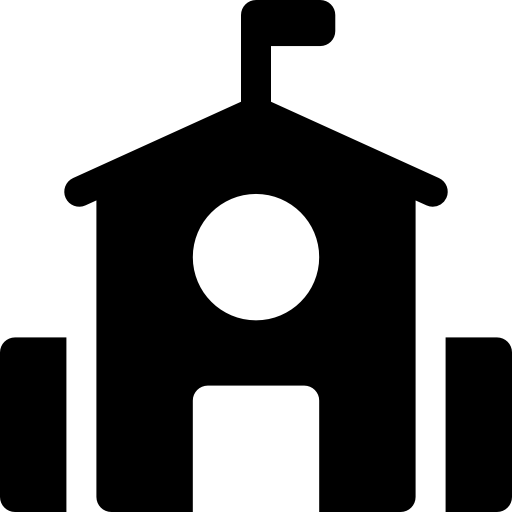
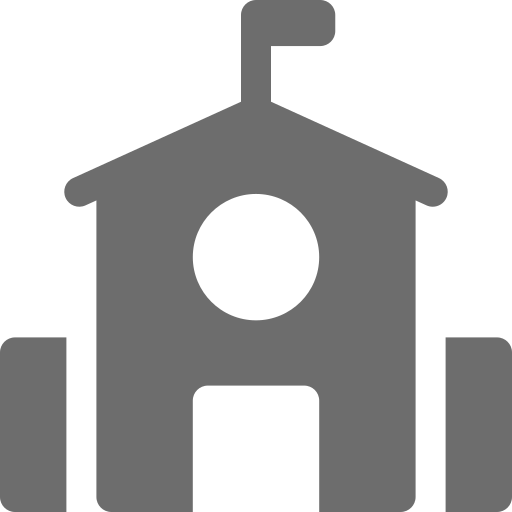
dashboard-student color scheme

diff --git a/src/app/dashboard-student/page.tsx b/src/app/dashboard-student/page.tsx
@@ -5,31 +5,43 @@ export default function Home() {
     <main className="flex min-h-screen flex-col items-center">
       {/* Main Header Section */}
       <div className="self-start w-[200px] text-left ml-[150px] mt-8">
-        <span className="text-6xl font-semibold">Dashboard</span>
+        <span className="text-6xl font-semibold text-headingBlack">
+          Dashboard
+        </span>
         <div className="flex items-end w-[4600px]">
           <Image src="/school.png" alt="school logo" width={25} height={25} />
           <div className="ml-3">
-            <span className="border-b-2 border-current">
+            <span className="border-b-2 border-subheadingBlack text-subheadingBlack">
               Decelis Junior High School
             </span>
-            <span className="mx-1"> | </span>
-            <span>Grade 8A &gt; [Student's Name]</span>
+            <span className="mx-1 text-subheadingBlack"> | </span>
+            <span className="text-subheadingBlack">
+              Grade 8A &gt; [Student's Name]
+            </span>
           </div>
         </div>
       </div>
       <hr className="self-start ml-[150px] border-t border-gray-200 my-[20px] w-[70%]" />
       <div className="self-start ml-[150px]">
-        <span className="font-bold text-4xl text-red-500">Bob Evans</span>
-        <span className="font-medium text-3xl text-red-500">'s Profile</span>
+        <span className="font-bold text-4xl text-headingRed">Bob Evans</span>
+        <span className="font-medium text-3xl text-headingRed">'s Profile</span>
       </div>
       {/* Main Content Container */}
       <div className="flex w-full mt-[30px] ml-[250px]">
         {/* Profile Outline Buttons */}
         <div className="flex flex-col ml-[30px]">
-          <button className="mb-5 text-left text-xl">Personal Data</button>
-          <button className="mb-5 text-left text-xl">Academics</button>
-          <button className="mb-5 text-left text-xl">Non-Academics</button>
-          <button className="text-left text-xl">Teacher's Notes</button>
+          <button className="mb-5 text-left text-xl text-subheadingBlack">
+            Personal Data
+          </button>
+          <button className="mb-5 text-left text-xl text-subheadingBlack">
+            Academics
+          </button>
+          <button className="mb-5 text-left text-xl text-subheadingBlack">
+            Non-Academics
+          </button>
+          <button className="text-left text-xl text-subheadingBlack">
+            Teacher's Notes
+          </button>
         </div>
         <div className="flex-grow">
           <div className="flex justify-center">
@@ -37,53 +49,91 @@ export default function Home() {
             <div className="flex w-[50%] h-dvh bg-white shadow-lg rounded-3xl ml-[-150px]">
               <div className="flex">
                 <div className="py-10 px-14 flex-1">
-                  <div className="font-bold text-4xl">Profile</div>
+                  <div className="font-bold text-4xl text-headingBlack">
+                    Profile
+                  </div>
                   <div className="flex">
                     <div className="mt-3">
-                      <div className="font-semibold text-xl">
+                      <div className="font-semibold text-xl text-headingBlack">
                         Personal Information
                       </div>
                       <div className="grid grid-cols-2">
-                        <div className="font-medium text-l">Name</div>
-                        <div className="font-medium text-l">: Evans, Bob</div>
-                        <div className="font-medium text-l">Date of birth</div>
-                        <div className="font-medium text-l">: 02/10/2005</div>
-                        <div className="font-medium text-l">Student ID</div>
-                        <div className="font-medium text-l">: 09297042381</div>
+                        <div className="font-medium text-l text-headingBlack">
+                          Name
+                        </div>
+                        <div className="font-medium text-l text-headingBlack">
+                          : Evans, Bob
+                        </div>
+                        <div className="font-medium text-l text-headingBlack">
+                          Date of birth
+                        </div>
+                        <div className="font-medium text-l text-headingBlack">
+                          : 02/10/2005
+                        </div>
+                        <div className="font-medium text-l text-headingBlack">
+                          Student ID
+                        </div>
+                        <div className="font-medium text-l text-headingBlack">
+                          : 09297042381
+                        </div>
                       </div>
-                      <div className="font-semibold text-xl mt-5">
+                      <div className="font-semibold text-xl mt-5 text-headingBlack">
                         Geography and Nationality
                       </div>
                       <div className="grid grid-cols-2">
-                        <div className="font-medium text-l">Citizenship</div>
-                        <div className="font-medium text-l">
+                        <div className="font-medium text-l text-headingBlack">
+                          Citizenship
+                        </div>
+                        <div className="font-medium text-l text-headingBlack">
                           : Citizen of China
                         </div>
 
-                        <div className="font-medium text-l">Birthplace</div>
-                        <div className="font-medium text-l">: Wuhan, Hubei</div>
+                        <div className="font-medium text-l text-headingBlack">
+                          Birthplace
+                        </div>
+                        <div className="font-medium text-l text-headingBlack">
+                          : Wuhan, Hubei
+                        </div>
                       </div>
                     </div>
                     <div className="mt-3 ml-[100px]">
-                      <div className="font-semibold text-xl">Demographics</div>
+                      <div className="font-semibold text-xl text-headingBlack">
+                        Demographics
+                      </div>
                       <div className="grid grid-cols-2">
-                        <div className="font-medium text-l">
+                        <div className="font-medium text-l text-headingBlack">
                           Gender Identity
                         </div>
-                        <div className="font-medium text-l">: Pansexual</div>
-                        <div className="font-medium text-l">Sex</div>
-                        <div className="font-medium text-l">: Female</div>
-                        <div className="font-medium text-l">Pronouns</div>
-                        <div className="font-medium text-l">: They/Them</div>
+                        <div className="font-medium text-l text-headingBlack">
+                          : Pansexual
+                        </div>
+                        <div className="font-medium text-l text-headingBlack">
+                          Sex
+                        </div>
+                        <div className="font-medium text-l text-headingBlack">
+                          : Female
+                        </div>
+                        <div className="font-medium text-l text-headingBlack">
+                          Pronouns
+                        </div>
+                        <div className="font-medium text-l text-headingBlack">
+                          : They/Them
+                        </div>
                       </div>
-                      <div className="font-semibold text-xl mt-5">Family</div>
+                      <div className="font-semibold text-xl mt-5 text-headingBlack">
+                        Family
+                      </div>
                       <div className="grid grid-cols-2">
-                        <div className="font-medium text-l">Father</div>
-                        <div className="font-medium text-l">
+                        <div className="font-medium text-l text-headingBlack">
+                          Father
+                        </div>
+                        <div className="font-medium text-l text-headingBlack">
                           : Mr. Hugh S. Evans
                         </div>
-                        <div className="font-medium text-l">Mother</div>
-                        <div className="font-medium text-l">
+                        <div className="font-medium text-l text-headingBlack">
+                          Mother
+                        </div>
+                        <div className="font-medium text-l text-headingBlack">
                           : Mrs. Olive Evans
                         </div>
                       </div>
@@ -91,11 +141,13 @@ export default function Home() {
                   </div>
                   {/* Education Section */}
                   <div className="flex mt-[40px]">
-                    <div className="font-bold text-4xl">Education</div>
+                    <div className="font-bold text-4xl text-headingBlack">
+                      Education
+                    </div>
                   </div>
                   {/* Education Progression Section */}
                   <div className="flex mt-[40px]">
-                    <div className="font-bold text-4xl">
+                    <div className="font-bold text-4xl text-headingBlack">
                       Education Progression
                     </div>
                   </div>

diff --git a/tailwind.config.ts b/tailwind.config.ts
@@ -25,6 +25,11 @@ const config: Config = {
       colors: {
         background: "#FAFAFA",
         foreground: "#FFFFFF",
+        headingRed: "#ff5c5c",
+        subheadingRed: "ff6d6d",
+        headingBlack: "#3f3f3f",
+        subheadingBlack: "#6d6d6d",
+        captionBlack: "#909090",
       },
     },
   },
